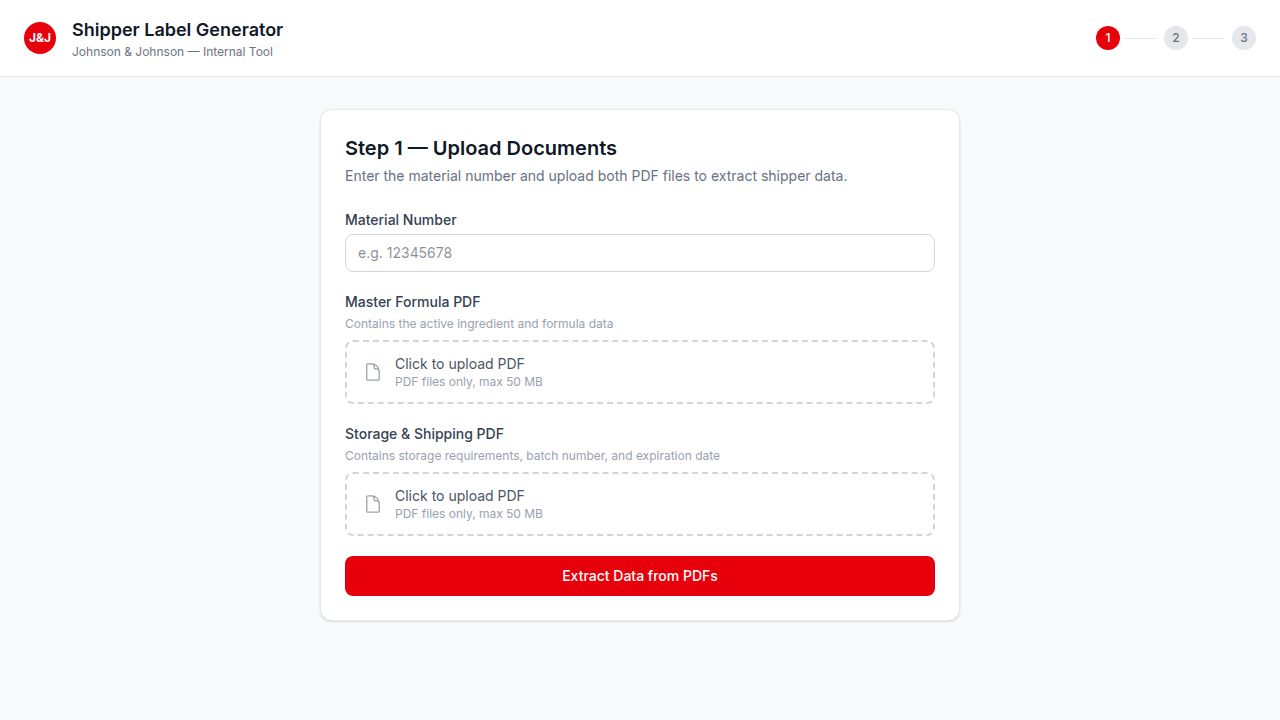
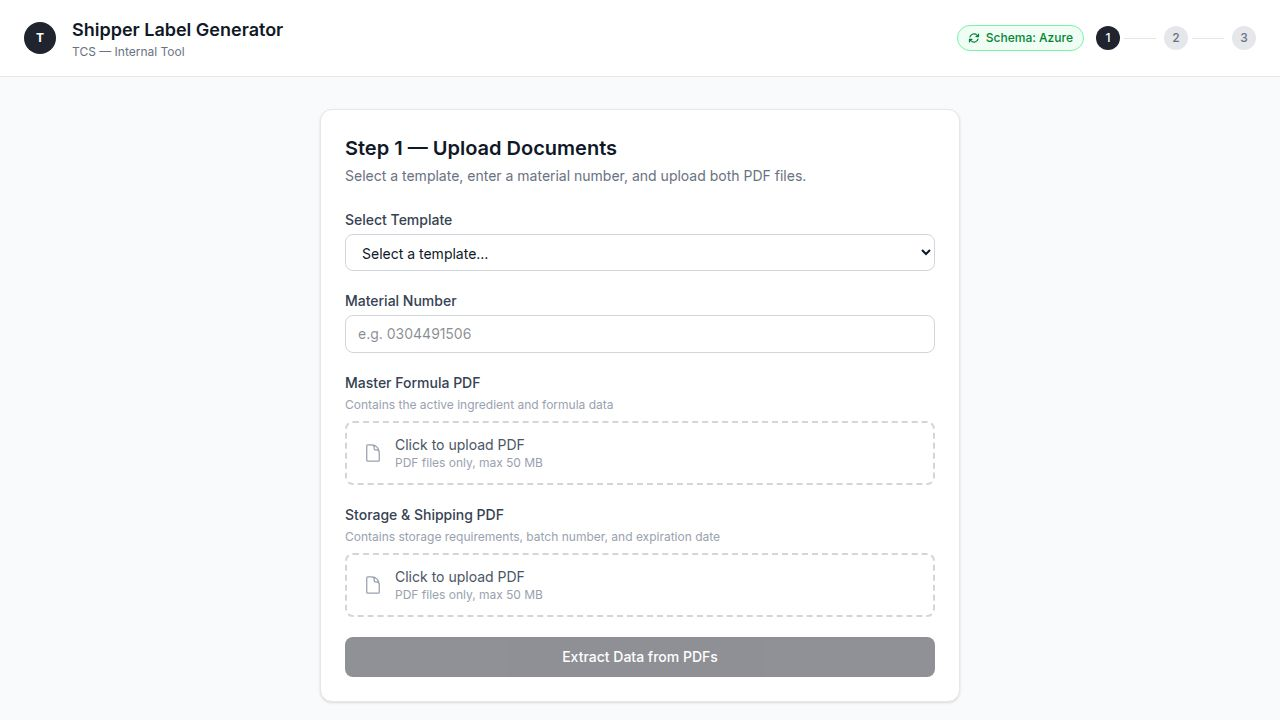
Update frontend configuration for local development
Modify vite.config.ts to conditionally load Replit-specific plugins and handle environment variables for local and Replit builds.

Replit-Commit-Author: Agent
Replit-Commit-Session-Id: 58c7354d-11fa-45fe-93a1-0bccad03437d
Replit-Commit-Checkpoint-Type: full_checkpoint
Replit-Commit-Event-Id: 438ddfee-da67-4e58-a3dd-930d9b948e21
Replit-Commit-Screenshot-Url: https://storage.googleapis.com/screenshot-production-us-central1/2b146646-2aea-43d2-ac0f-c23d50acc530/58c7354d-11fa-45fe-93a1-0bccad03437d/L6e3xZI
Replit-Helium-Checkpoint-Created: true

diff --git a/artifacts/frontend/vite.config.ts b/artifacts/frontend/vite.config.ts
@@ -2,39 +2,20 @@ import { defineConfig } from "vite";
 import react from "@vitejs/plugin-react";
 import tailwindcss from "@tailwindcss/vite";
 import path from "path";
-import runtimeErrorOverlay from "@replit/vite-plugin-runtime-error-modal";
 
-const rawPort = process.env.PORT;
+const isReplit = process.env.REPL_ID !== undefined;
 
-if (!rawPort) {
-  throw new Error(
-    "PORT environment variable is required but was not provided.",
-  );
-}
-
-const port = Number(rawPort);
-
-if (Number.isNaN(port) || port <= 0) {
-  throw new Error(`Invalid PORT value: "${rawPort}"`);
-}
-
-const basePath = process.env.BASE_PATH;
-
-if (!basePath) {
-  throw new Error(
-    "BASE_PATH environment variable is required but was not provided.",
-  );
-}
+const port = Number(process.env.PORT ?? "5173");
+const basePath = process.env.BASE_PATH ?? "/";
 
 export default defineConfig({
   base: basePath,
   plugins: [
     react(),
     tailwindcss(),
-    runtimeErrorOverlay(),
-    ...(process.env.NODE_ENV !== "production" &&
-    process.env.REPL_ID !== undefined
+    ...(isReplit
       ? [
+          (await import("@replit/vite-plugin-runtime-error-modal")).default(),
           await import("@replit/vite-plugin-cartographer").then((m) =>
             m.cartographer({
               root: path.resolve(import.meta.dirname, ".."),